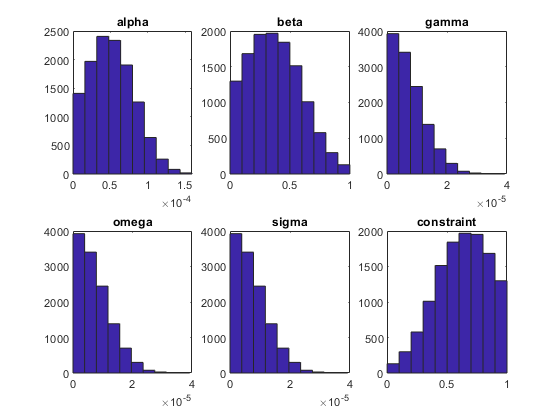
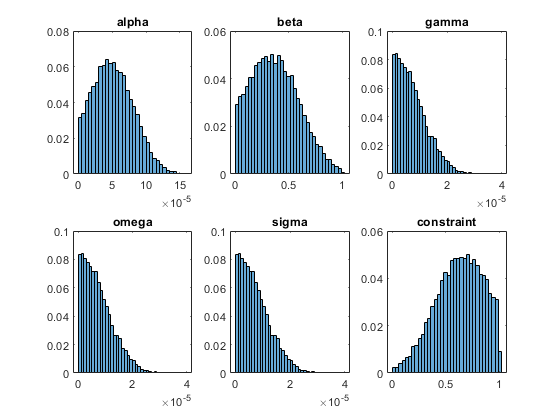
analysis dataset

diff --git a/Code/MATLAB_DatasetGenerator/ScenariosNeuralNetGenerator.m b/Code/MATLAB_DatasetGenerator/ScenariosNeuralNetGenerator.m
@@ -115,30 +115,38 @@ idx               = setxor(1:j,bad_idx);
 data_vola         = data_price(:,1:4+1+Nmaturities);
 data_vola(:,4+1+Nmaturities+1:75) = vola;
 data_vola         = data_vola(idx,:);
+data_price        = data_price(idx,:);
 save(strcat('data_price_','maxbounds','_',num2str(size(data_price,1)),'_',num2str(min(K)),'_',num2str(max(K)),'_',num2str(min(Maturity)),'_',num2str(max(Maturity)),'.mat'),'data_price')
 save(strcat('data_vola_','maxbounds','_',num2str(size(data_vola,1)),'_',num2str(min(K)),'_',num2str(max(K)),'_',num2str(min(Maturity)),'_',num2str(max(Maturity)),'.mat'),'data_vola')
 
-
+idx = logical(idx);
 
 %% Visualisation of control purposes
 % Summary
     fprintf('\n')
-    disp(['max price: ',    num2str(max(max(scenario_data(:,4+1+Nmaturities+1:end))))])
-    disp(['min price: ',    num2str(min(min(scenario_data(:,4+1+Nmaturities+1:end))))])
-    disp(['mean price: ',   num2str(mean(mean(scenario_data(:,4+1+Nmaturities+1:end))))])
-    disp(['median price: ', num2str(median(median(scenario_data(:,4+1+Nmaturities+1:end))))])
-    disp(['median alpha: ', num2str(median(scenario_data(:,1)))])
-    disp(['median beta: ',  num2str(median(scenario_data(:,2)))])
-    disp(['median gamma: ', num2str(median(scenario_data(:,3)))])
-    disp(['median omega: ', num2str(median(scenario_data(:,4)))])
-    disp(['median sigma: ', num2str(median(scenario_data(:,5)))])
+    disp(['failed szenarios (constraints): ', num2str(round(100*fail1/Nsim,2)),'%'])
+    disp(['failed szenarios (bad prices):   ', num2str(round(100*fail2/Nsim,2)),'%'])
+    disp(['failed szenarios (bad volas):    ', num2str(round(100*length(bad_idx)/Nsim,2)),'%'])
+    disp(['max price:     ', num2str(max(data_price(:,4+1+Nmaturities+1:end),[],'all'))])
+    disp(['min price:     ', num2str(min(data_price(:,4+1+Nmaturities+1:end),[],'all'))])
+    disp(['mean price:    ', num2str(mean(data_price(:,4+1+Nmaturities+1:end),'all'))])
+    disp(['median price:  ', num2str(median(data_price(:,4+1+Nmaturities+1:end),'all'))])
+    disp(['max vola:      ', num2str(max(data_vola(:,4+1+Nmaturities+1:end),[],'all'))])
+    disp(['min vola:      ', num2str(min(data_vola(:,4+1+Nmaturities+1:end),[],'all'))])
+    disp(['mean vola:     ', num2str(mean(data_vola(:,4+1+Nmaturities+1:end),'all'))])
+    disp(['median vola:   ', num2str(median(data_vola(:,4+1+Nmaturities+1:end),'all'))])
+    disp(['median alpha:  ', num2str(median(scenario_data(idx,1)))])
+    disp(['median beta:   ', num2str(median(scenario_data(idx,2)))])
+    disp(['median gamma:  ', num2str(median(scenario_data(idx,3)))])
+    disp(['median omega:  ', num2str(median(scenario_data(idx,4)))])
+    disp(['median sigma:  ', num2str(median(scenario_data(idx,5)))])
 figure
-subplot(2,3,1),hist(scenario_data(:,1));title('alpha')
-subplot(2,3,2),hist(scenario_data(:,2));title('beta')
-subplot(2,3,3),hist(scenario_data(:,3));title('gamma')
-subplot(2,3,4),hist(scenario_data(:,4));title('omega')
-subplot(2,3,5),hist(scenario_data(:,5));title('sigma')
-subplot(2,3,6),hist(constraint);title('constraint');
+subplot(2,3,1),histogram(scenario_data(idx,1),'Normalization','probability');title('alpha')
+subplot(2,3,2),histogram(scenario_data(idx,2),'Normalization','probability');title('beta')
+subplot(2,3,3),histogram(scenario_data(idx,3),'Normalization','probability');title('gamma')
+subplot(2,3,4),histogram(scenario_data(idx,4),'Normalization','probability');title('omega')
+subplot(2,3,5),histogram(scenario_data(idx,5),'Normalization','probability');title('sigma')
+subplot(2,3,6),histogram(constraint(idx),'Normalization','probability');title('constraint');
 % Example plot
 figure
 [X,Y]=meshgrid(K,Maturity);
